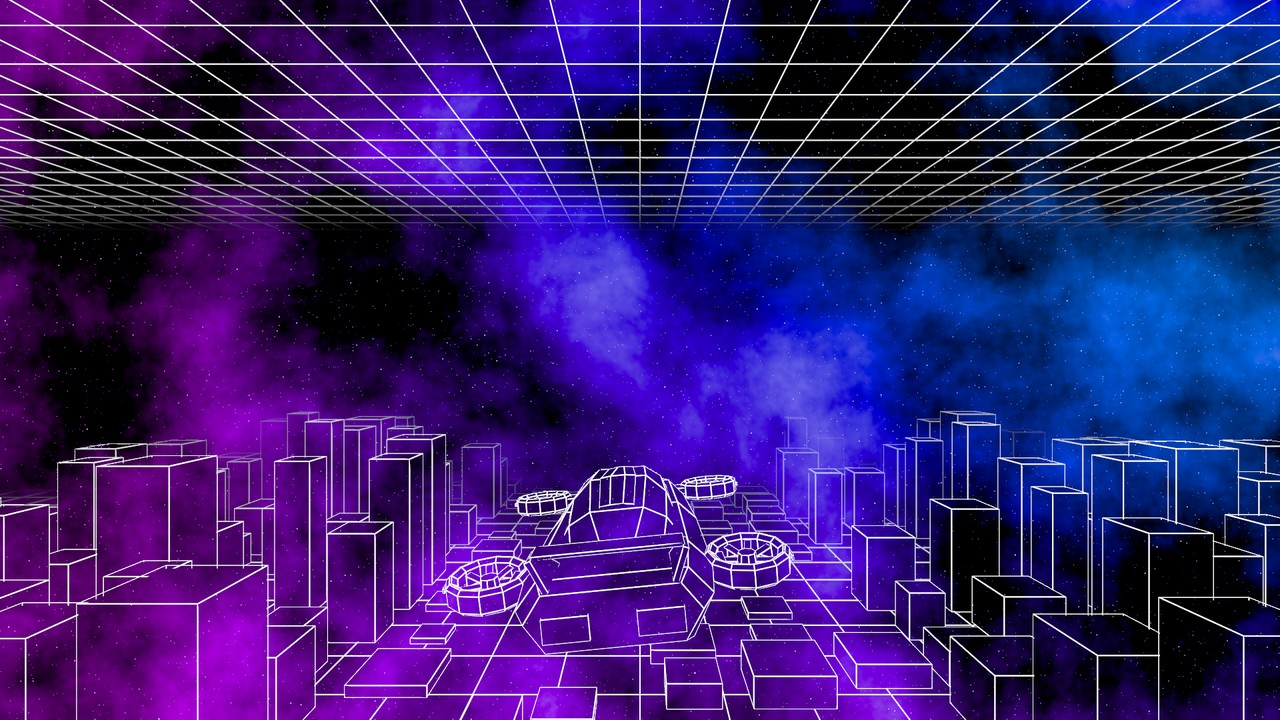
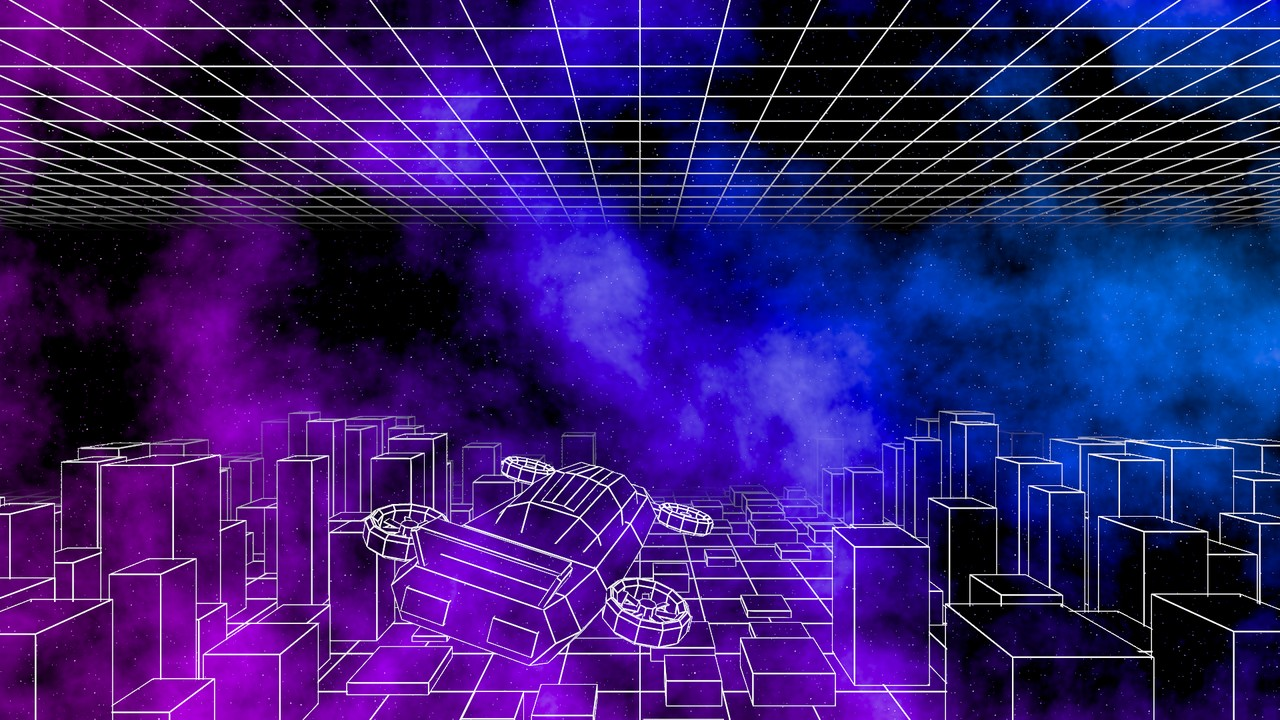
M6: synthwave's lane drifts and the glider steers along it; fan blades spin true
The low lane through the city now wanders slowly from side to side: each block
takes the lane's place when it appears, so a winding path comes towards the
camera. blocks.wgsl hands the same course on at 1 x 1 pixels (output steer);
the glider follows it there, turning and leaning into the bends.

Each fan blade is now pitched about its own length. The four blades used to
share one tilt, as in the original model, and the tilted disc wobbled as it
spun.

generated with Claude Code

diff --git a/examples/synthwave/courier.py b/examples/synthwave/courier.py
@@ -117,7 +117,7 @@ class Mesh:
             lines += [f"v {x - cx:.4f} {-(z - cz):.4f} {y - cy:.4f}" for x, y, z in verts]
             lines += ["f " + " ".join(str(base + i) for i in f) for f in faces]
             base += len(verts)
-        path.write_text("\n".join(lines) + "\n", encoding="ascii")
+        path.write_text("\n".join(lines) + "\n", encoding="ascii", newline="\n")
 
 
 def duct(ri, ro, h):
@@ -167,8 +167,11 @@ def body():
 
 def fan():
     m = Mesh()
+    # Each blade pitched about its own length, then turned into place. The original turns them
+    # the other way round, which tilts the whole disc: unseen there, as its fans stand still,
+    # but a tilted disc wobbles once it spins.
     for b in range(4):
-        m.box("blade", (1.5, 0.03, 0.18), (0, 0, 0), (0.25, b * math.pi / 4, 0))
+        m.part("blade", *box_verts((1.5, 0.03, 0.18)), (0, 0, 0), [rot_x(0.25), rot_y(b * math.pi / 4)])
     return m
 
 

diff --git a/examples/synthwave/README.md b/examples/synthwave/README.md
@@ -1,43 +1,52 @@
 # synthwave
 
-The courier glider of Hikyaku flying over a city of wireframe blocks between a floor and a ceiling grid, through
-a nebula tinted warm and then cold. Everything but the glider is made in the network: no
-pictures, no meshes from files.
+A glider flies over a city of wireframe blocks, between a floor grid and a ceiling grid. Behind
+it lies a nebula, tinted warm and then cold. The glider is the courier from Hikyaku, a browser
+game on alber.me. Everything else is made in the network: no pictures, no meshes from files.
 
-- `/grid_plane` is a plane split into 80 by 80 `cells`; drawn by `/grid_lines` (mat.wireframe)
-  it is a grid. `/floor` lays it flat and moves it one cell per beat, bound to `/scroll` (a
-  saw); `/ceiling` is the same floor 4 metres higher.
-- `/blocks` (geo.tex_instance) puts a copy of `/block` at every texel of `/block_places` and
-  sizes it by `/block_sizes`. Both run `blocks.wgsl`, one handing on positions, the other
-  sizes: each block comes towards the camera at the grid's speed and starts again far ahead
-  with a new size. The lane down the middle keeps them low. `/facades` puts a
-  slightly smaller `/walls` box (mat.occluder, `/wall_mat`) inside every block: invisible, so
-  the sky shows through, but it hides the grid and the blocks behind.
-- `/render` draws floor, ceiling and blocks through `/camera`; `/fade` (`fade.wgsl`) reads the
-  distance from the render's `data` output and lets the lines melt away towards the horizon.
-- The sky: `/clouds` (tex.noise) bent into wisps by `/swirl` through `/wisps`, stars from
-  `/star_noise` through `/stars`. Slow noise (`/tint`) picks colours from `/warm_keys` and
-  `/cold_keys` (tex.lookup); `/palette` changes from one to the other every minute
-  (`/season`, softened by `/season_fade`), and `/sky` (composite `color`) puts the palette's
-  hue on the nebula's brightness.
-- The glider is the courier the player flies in Hikyaku on alber.me: `courier.obj` (`/courier`)
-  holds hull, cabin, ducts, nozzles and fins, `fan.obj` (`/fan`) one lift fan's blades.
-  `/fan_turn` spins them by `/spin` (a saw), `/fans` (geo.instance) puts four copies into the
-  ducts by the rows of `/fan_places`, two of them mirrored so they turn the other way. `/ship`
-  rolls it by `/tilt`, steers it by `/weave` and lets it bob by `/bob`; it sits in the scene and
-  looks like the blocks: white lines (`/ship_lines`) and a copy with `/wall_mat` (`/ship_cover`)
-  that hides what lies behind it. `courier.py` writes both files (run it after changing it).
+- **Grid:** `/grid_plane` is a plane split into 80 by 80 `cells`. `/grid_lines`
+  (mat.wireframe) draws it as a grid. `/floor` lays it flat and moves it one cell per beat,
+  bound to `/scroll` (a saw). `/ceiling` is the same floor 4 metres higher.
+- **City:** `/blocks` (geo.tex_instance) puts a copy of `/block` at every texel of
+  `/block_places` and sizes it by `/block_sizes`. Both nodes run `blocks.wgsl`. Each block comes
+  towards the camera at the grid's speed and starts again far ahead with a new size.
+- **Lane:** the blocks stay low in a lane that drifts slowly from side to side. Each block takes
+  the lane's place at the moment it appears far ahead. The lane is therefore a winding path that
+  comes towards the camera.
+- **Solid blocks:** `/facades` puts a slightly smaller `/walls` box inside every block, with
+  `/wall_mat` (mat.occluder). The box is invisible: the sky shows through the block. The grid
+  and the blocks behind it are hidden.
+- **Glider:** `courier.obj` (`/courier`) holds hull, cabin, ducts, nozzles and fins. `fan.obj`
+  (`/fan`) holds the blades of one lift fan. `/fan_turn` spins the blades by `/spin`, and
+  `/fans` (geo.instance) puts four copies into the ducts by the rows of `/fan_places`. Two
+  copies are mirrored, so they turn the other way. `courier.py` writes both files; run it after
+  changing it.
+- **Steering:** `/steer` runs `blocks.wgsl` at 1 by 1 pixels and hands on the lane where the
+  glider flies: its place, its turn and its lean. `/course` reads that pixel as channels.
+  `/ship` moves, turns and rolls the glider by them, and `/bob` lifts it up and down.
+  `/ship_cover` hides what lies behind the glider, like the blocks.
+- **Render:** `/render` draws floor, ceiling, blocks and glider through `/camera`. `/fade`
+  (`fade.wgsl`) reads the distance from the render's `data` output and lets the lines fade out
+  towards the horizon.
+- **Sky:** `/clouds` (tex.noise) is bent into wisps by `/swirl` through `/wisps`. Stars come
+  from `/star_noise` through `/stars`. Slow noise (`/tint`) picks colours from `/warm_keys` and
+  `/cold_keys` (tex.lookup). `/palette` changes from one to the other every minute (`/season`,
+  softened by `/season_fade`). `/sky` (composite `color`) puts the palette's hue on the
+  nebula's brightness.
 - `/out` lays the render over the sky (composite `over`).
 
 Try:
 
-- `/block_places` and `/block_sizes` `fill` (how full the city is) and `lane`; set both the
+- `fill` (how full the city is), `lane` (half its width), `drift` (how far it wanders, in
+  metres) and `drift_rate` on `/block_places`, `/block_sizes` and `/steer`. Set all three the
   same.
+- `bank` on `/steer`: how far the glider leans into a turn.
 - `/fade` `start` and `end`: how far the lines reach.
-- `/scroll` `rate` and the blocks' `speed` together for another tempo (rate is beats per
-  second, speed half of it in metres).
-- `/warm_keys` and `/cold_keys` `keys` for other palettes; `/season` `rate` for how often
-  they change.
-- `/wall_mat` swapped for a mat.constant: solid blocks in its colour.
-- `/spin` `rate` for faster fans, `/ship` `translate` and `uniform` to move and size it.
+- `/scroll` `rate` and the blocks' `speed` together for another tempo. `rate` is beats per
+  second; `speed` is half of it, in metres per second.
+- `/warm_keys` and `/cold_keys` `keys` for other palettes; `/season` `rate` for how often they
+  change.
+- A mat.constant in place of `/wall_mat`: solid blocks in its colour.
+- `/spin` `rate` for faster fans. `/ship` `uniform` for the glider's size. When you move the
+  glider along `translate` y, set `at` on `/steer` to the same value.
 - Bind `/scroll` or `/glow` `brightness` to a sound channel (see the audio-reactive example).
